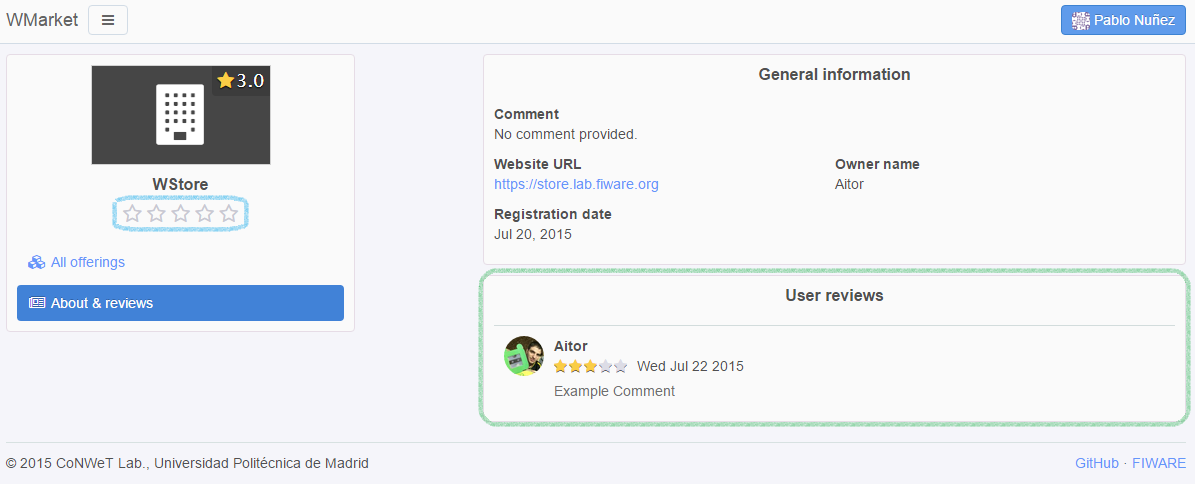
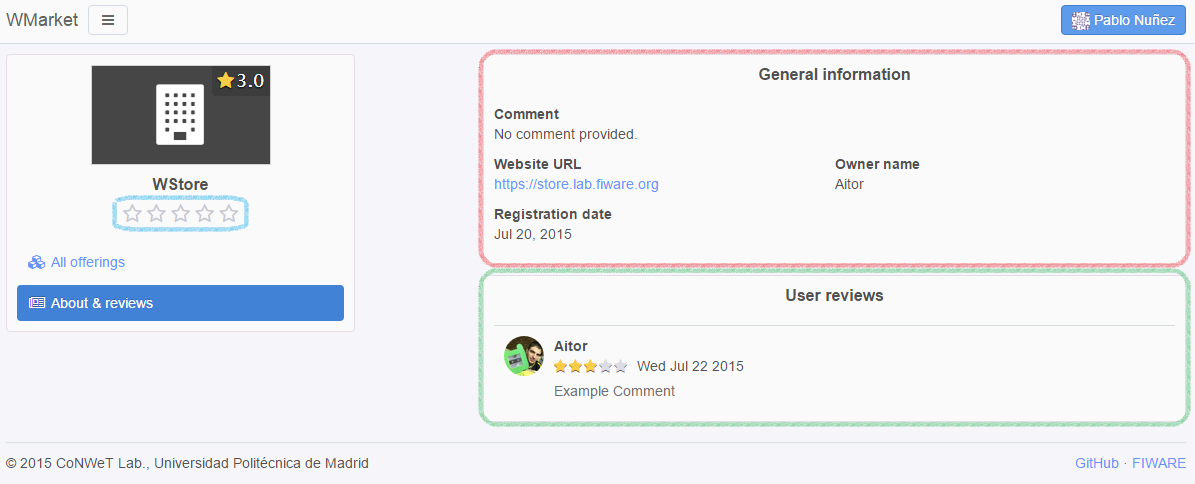
Add browsing stores. Minor improvements

Changed region(s): [[0.4025, 0.093, 1.0, 0.5579]]

diff --git a/doc/user-guide.rst b/doc/user-guide.rst
@@ -13,6 +13,10 @@ This guide is related to the version 4.4.3 of WMarket, released in September
 Users Guide
 -----------
 
+WMarket is a software that eases the users the process of looking for the best
+offering in different Stores since it aggregates them and all their offerings 
+so users can find what they need more easily.
+
 The users guide is divided into two parts: one related to consumers (users 
 interested in acquiring offerings) and another one related to providers (users
 interested in acquiring and publishing offerings).
@@ -267,3 +271,63 @@ The comparison will show you:
 * The price plans of each offering.
 * The services of each offering. Services will be ordered and aligned in order
   to highlight the difference of services between the different offerings.
+
+Browsing Stores
+---------------
+
+Appart from retrieving all the offerings registered, you can also get the 
+offerings that are included in a certain Store. To do so, click the menu button
+that is next to the **WMarket** text on the left upper corner (as can be seen
+in the following image) and click on one of the registered stores.
+
+.. image:: /images/user-guide/contextual_menu.png
+   :align: center
+
+Once that you click on one store, you will see a screen similar to the 
+following one:
+
+.. image:: /images/user-guide/store_main_consumer.png
+   :align: center
+
+The area rounded by the green rectangle contains all the offering registered in
+this Store. To retrieve the details about the Store and its review, just click
+the **About & reviews** button (the one indicated by the blue arrow). You will
+be redirected to the next page.
+
+.. image:: /images/user-guide/store_details.png
+   :align: center
+
+The **General Information** box (the one rounded with the red rectangle) 
+contains general information about the Store (comments, web site, creator...)
+while the **Users review** box (the one rounded with the blue rectangle) 
+contains all the reviews made by users. 
+
+Reviewing Stores
+````````````````
+
+If you want to review a store, you can easily do it by clicking one of the
+stars contained in the blue box. The first star means that you do not like the
+store while the last one means that you really like the store. You should
+click on the appropriate star according to your thoughts. 
+
+Once that you have clicked a star, a new dialog will be opened asking for an
+extended review as can be seen in the following picture.
+
+.. image:: /images/user-guide/new_review.png
+   :align: center
+
+In this dialog you can change the number of stars and add a brief comment to 
+explain your decision. Once that you have completed the review, just click the
+**Submit** button. 
+
+Once that you have reviewed the store, you can edit or delete your review. 
+To do so, just click one of the stars contained in the blue box. A new dialog
+will be opened with your review. 
+
+.. image:: /images/user-guide/update_review.png
+   :align: center
+
+To update your previous review, just modify the number of stars and type a new
+comment. Then, click the **Save** button (the one indicated by the blue arrow).
+On the other hand, if you want to delete your review, just click the **Delete**
+button (the one indicated by the red arrow).
